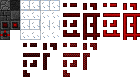
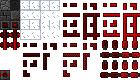
Add files via upload

diff --git a/block.py b/block.py
@@ -8,6 +8,10 @@ def get_data(type_):
         return({"activated" : 0})
     elif type_ == "activator":
         return({"activated" : 0})
+    elif type_ == "NOT":
+        return({"activated" : 0, "rotate" : 0})
+    elif type_ == "wire box":
+        return({"activated1" : 0, "activated2" : 0})#горизонтальный, вертикальный
     else:
         return({})
 
@@ -23,9 +27,9 @@ class Block():
         self.glassed = glassed
         self.image = pygame.Surface((40, 40))
         self.movelist = [
-            [0, 1],
-            [1, 0],
             [0, -1],
+            [1, 0],
+            [0, 1],
             [-1, 0]
         ]
         self.active = 0
@@ -37,25 +41,31 @@ class Block():
         elif self.type == "wire":
             see = [0, 0, 0, 0]
             for i in range(4):
-                pos = [self.pos[0] + self.movelist[i][0], self.pos[1] + self.movelist[i][1]]
-                if pos[0] >= 0 and pos[0] < self.world.w and pos[1] >= 0 and pos[1] < self.world.h:
-                    b = self.world.field[pos[0]][pos[1]]
-                    if b.type == "wire" or b.type == "activator":
-                        see[i] = 1
-            self.image = get_image(6 + see[0] * 2 + see[3] + 4 * self.data["activated"], see[2] * 2 + see[1])
+                pos = self.get_rotate_position(i)
+                if self.border(pos):
+                    see[i] = self.is_block_connect_with_wire(i)
+            self.image = get_image(6 + see[2] * 2 + see[3] + 4 * self.data["activated"], see[0] * 2 + see[1])
         elif self.type == "activator":
             self.image = get_image(self.data["activated"], 2)
         elif self.type == "block":
             self.image = get_image(0, 1)
+        elif self.type == "NOT":
+            i = 0
+            front_pos = self.get_rotate_position(self.data["rotate"])
+            if self.border(front_pos):
+                i = self.is_block_connect_with_wire(self.data["rotate"])
+            self.image = get_image(10 + self.data["activated"] * 2 + i, 4 + self.data["rotate"])
+        elif self.type == "wire box":
+            self.image = get_image(0 + self.data["activated1"], 3 + self.data["activated2"])
         if self.glassed:
             see = [0, 0, 0, 0]
             for i in range(4):
-                pos = [self.pos[0] + self.movelist[i][0], self.pos[1] + self.movelist[i][1]]
-                if pos[0] >= 0 and pos[0] < self.world.w and pos[1] >= 0 and pos[1] < self.world.h:
+                pos = self.get_rotate_position(i)
+                if self.border(pos):
                     b = self.world.field[pos[0]][pos[1]]
                     if b.glassed:
                         see[i] = 1
-            self.image.blit(get_image(2 + see[0] * 2 + see[3], see[2] * 2 + see[1]), (0, 0))
+            self.image.blit(get_image(2 + see[2] * 2 + see[3], see[0] * 2 + see[1]), (0, 0))
 
     def draw(self, screen, world_pos):
         screen.blit(self.image, (world_pos[0] + self.pos[0] * 40, world_pos[1] + self.pos[1] * 40))
@@ -64,13 +74,43 @@ class Block():
         if self.type == "activator":
             self.data["activated"] = not self.data["activated"]
 
-    def update(self, data):#распространение энергии
-        self.change_image()
-        self.active = 1
-        for i in range(4):
-            pos = [self.pos[0] + self.movelist[i][0], self.pos[1] + self.movelist[i][1]]
-            if pos[0] >= 0 and pos[0] < self.world.w and pos[1] >= 0 and pos[1] < self.world.h:
-                b = self.world.field[pos[0]][pos[1]]
-                if b.type == "wire" and b.active == 0:
-                    b.data["activated"] = data["activated"]
-                    b.update({"activated" : data["activated"]})
+    def update(self, data, enr=1):#распространение энергии
+        if self.type == "NOT":
+            front_pos = self.get_rotate_position(self.data["rotate"])
+            behind_pos = self.get_rotate_position((self.data["rotate"] + 2) % 4)
+            i = 0
+            if self.border(behind_pos):
+                behind_block = self.world.field[behind_pos[0]][behind_pos[1]]
+                if behind_block.type == "wire" or behind_block.type == "activator" or behind_block.type == "NOT":
+                    i = behind_block.data["activated"]
+            self.data["activated"] = not i
+            if not i == 1:
+                self.active = 1
+            if self.border(front_pos):
+                front_block = self.world.field[front_pos[0]][front_pos[1]]
+                if front_block.type == "wire" and front_block.active == 0 and self.data["activated"] and enr:
+                    front_block.data["activated"] = self.data["activated"]
+                    front_block.update({"activated" : self.data["activated"], "rotate" : i})
+        elif self.type == "wire box":
+            if data["rotate"] == 1 or data["rotate"] == 3:#горизонтальный провод
+                self.data["activated1"] = 1
+        else:
+            self.active = 1
+            for i in range(4):
+                pos = self.get_rotate_position(i)
+                if self.border(pos):
+                    b = self.world.field[pos[0]][pos[1]]
+                    if b.type == "wire" or b.type == "wire box" and b.active == 0:
+                        b.data["activated"] = data["activated"]
+                        b.update({"activated" : data["activated"], "rotate" : i})
+
+    def get_rotate_position(self, rotate):
+        return([self.pos[0] + self.movelist[rotate][0], self.pos[1] + self.movelist[rotate][1]])
+
+    def border(self, pos):
+        return(pos[0] >= 0 and pos[0] < self.world.w and pos[1] >= 0 and pos[1] < self.world.h)
+
+    def is_block_connect_with_wire(self, rotate):
+        pos = self.get_rotate_position(rotate)
+        b = self.world.field[pos[0]][pos[1]]
+        return(b.type == "wire" or b.type == "activator" or (b.type == "NOT" and (b.data["rotate"] == rotate or (b.data["rotate"] + 2) % 4 == rotate)) or b.type == "wire box")

diff --git a/world.py b/world.py
@@ -24,8 +24,10 @@ class World:
         self.change_image()
         self.select_block = "wire"
         self.mousetag = 0
-        self.inventory = {"wire" : 999, "activator" : 999, "block" : 999}
+        self.inventory = {"wire" : 99999, "activator" : 99999, "block" : 99999, "NOT" : 99999, "wire box" : 99999}
         self.timer = 0
+        self.select_rotate = 0
+        self.r_tag = 0
 
     def update(self):
         keys = pygame.key.get_pressed()#проверка нажатий кнопок
@@ -36,6 +38,17 @@ class World:
             self.select_block = "activator"
         elif keys[pygame.K_3]:
             self.select_block = "block"
+        elif keys[pygame.K_4]:
+            self.select_block = "NOT"
+        #elif keys[pygame.K_5]:
+        #    self.select_block = "wire box"
+        if keys[pygame.K_r]:#поворот блока
+            if self.r_tag == 0:
+                self.select_rotate += 1
+                self.select_rotate %= 4
+                self.r_tag = 1
+        else:
+            self.r_tag = 0
         #установка и ломание
         if pygame.mouse.get_pressed()[0]:#установка
             mousepos = pygame.mouse.get_pos()
@@ -46,6 +59,8 @@ class World:
                     if self.field[blockpos[0]][blockpos[1]].glassed == 0:
                         self.timer = 0
                         self.field[blockpos[0]][blockpos[1]] = Block(self, blockpos, self.select_block)
+                        if self.select_block == "NOT":
+                            self.field[blockpos[0]][blockpos[1]].data["rotate"] = self.select_rotate
                         self.change_image()
                         self.mousetag = 1
                 elif self.mousetag == 0:#нажатие на блок
@@ -73,17 +88,30 @@ class World:
                 for y in range(self.h):
                     if self.field[x][y].type == "wire":
                         self.field[x][y].data["activated"] = 0
-                        self.field[x][y].change_image()
             for x in range(self.w):#распространение электричества
                 for y in range(self.h):
-                    if self.field[x][y].type == "activator":
+                    if self.field[x][y].type == "activator" or self.field[x][y].type == "NOT":
                         if self.field[x][y].data["activated"] == 1:
                             self.field[x][y].update(self.field[x][y].data)
+            for x in range(self.w):#
+                for y in range(self.h):
+                    if self.field[x][y].type == "NOT":
+                        self.field[x][y].update(self.field[x][y].data, enr=0)
+            #gates = 1
+            #while gates > 0:#активация логических вентилей
+            #    gates = 0
+            #    for x in range(self.w):
+            #        for y in range(self.h):
+            #            if self.field[x][y].type == "NOT" and self.field[x][y].active == 0:
+            #                self.field[x][y].active = 1
+            #                gates += 1
+            #                self.field[x][y].update(self.field[x][y].data)
+            self.change_image()
 
-        #self.timer = 0
-        self.timer += 1
-        if self.timer >= 60:
-            self.timer = 0
+        self.timer = 0
+        #self.timer += 1
+        #if self.timer >= 60:
+        #    self.timer = 0
 
     def draw(self, screen):
         font = pygame.font.SysFont(None, 25)
@@ -97,7 +125,7 @@ class World:
         blockpos = [int(mouse_world_pos[0] / 40), int(mouse_world_pos[1] / 40)]
         if blockpos[0] >= 0 and blockpos[0] < self.w and blockpos[1] >= 0 and blockpos[1] < self.h:
             if self.field[blockpos[0]][blockpos[1]].type == "air":
-                select_image = image_factory.get_block_image(self.select_block, [0, 0, 0, 0], {"activated" : 0})
+                select_image = image_factory.get_block_image(self.select_block, [0, 0, 0, 0], {"activated" : 0, "rotate" : self.select_rotate, "activated1" : 0, "activated2" : 0})
                 select_image.convert_alpha()
                 select_image.set_alpha(90)
                 screen.blit(select_image, (blockpos[0] * 40 + self.pos[0], blockpos[1] * 40 + self.pos[1]))

diff --git a/image_factory.py b/image_factory.py
@@ -19,8 +19,14 @@ def get_wire_image(neighbours, data):
 def get_activator_image(data):
     return(get_image(data["activated"], 2))
 
+def get_NOT_image(data, neighbours):
+    return(get_image(10 + data["activated"] * 2 + neighbours[0], 4 + data["rotate"]))
+
 def get_glass_image(neighbours):
-    return(get_image(2 + see[0] * 2 + see[3], see[2] * 2 + see[1]), (0, 0))
+    return(get_image(2 + neighbours[0] * 2 + neighbours[3], neighbours[2] * 2 + neighbours[1]), (0, 0))
+
+def get_wire_box_image(data):
+    return(get_image(0 + data["activated1"], 3 + data["activated2"]))
 
 def get_block_image(sftype, neighbours, data):
     if sftype == "wire":
@@ -29,3 +35,7 @@ def get_block_image(sftype, neighbours, data):
         return(get_activator_image(data))
     elif sftype == "block":
         return(get_image(0, 1))
+    elif sftype == "NOT":
+        return(get_NOT_image(data, neighbours))
+    elif sftype == "wire box":
+        return(get_wire_box_image(data))

diff --git a/main.py b/main.py
@@ -14,7 +14,7 @@ description = "Logic world"
 pygame.display.set_caption(description)
 timer = pygame.time.Clock()
 black = (0, 0, 0)
-game_world = world.World()
+game_world = world.World(int(W / 40), int(H / 40))
 
 while keep_going:
     events = pygame.event.get()
